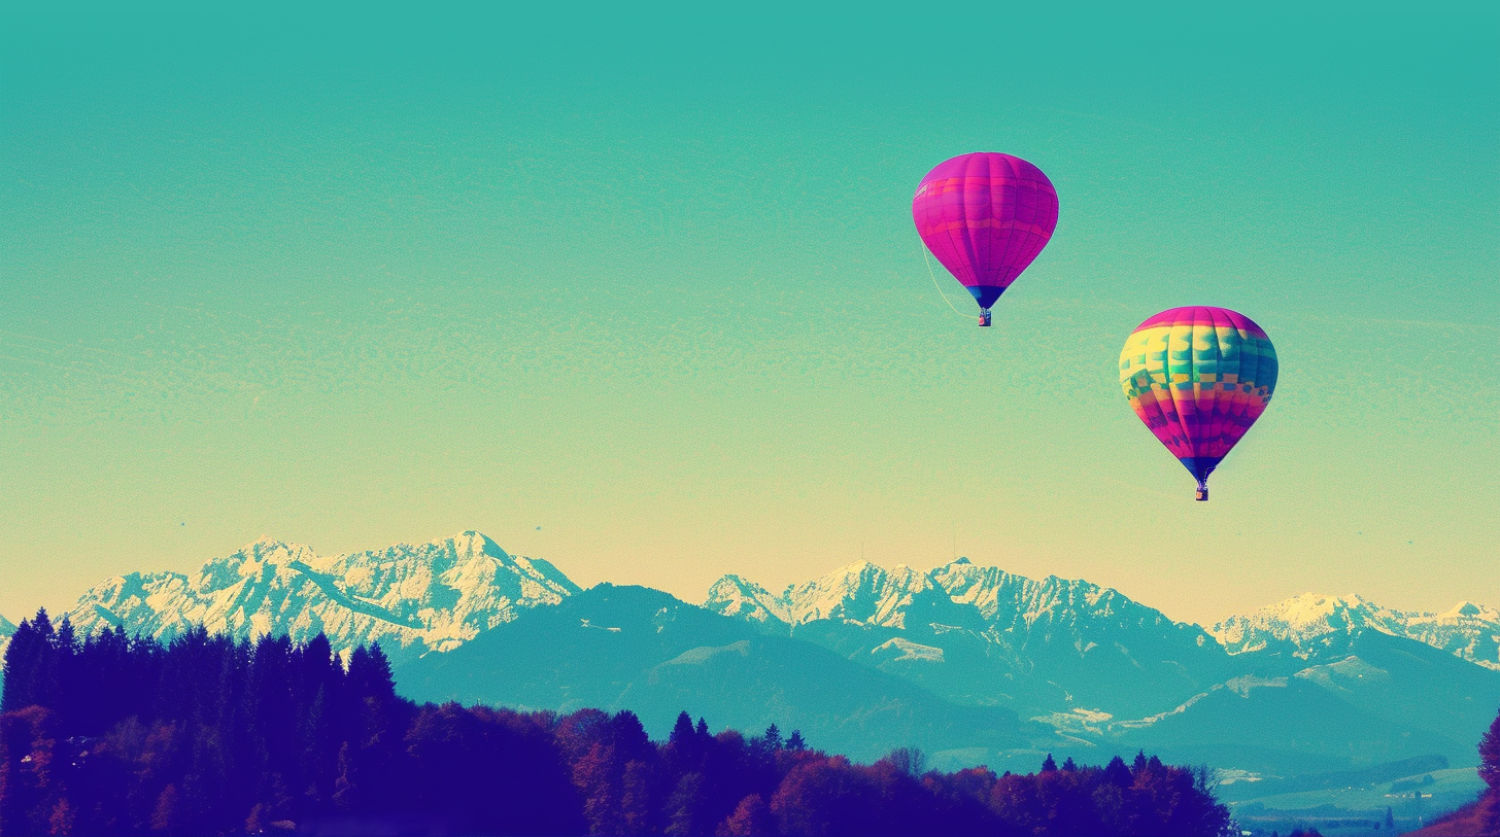
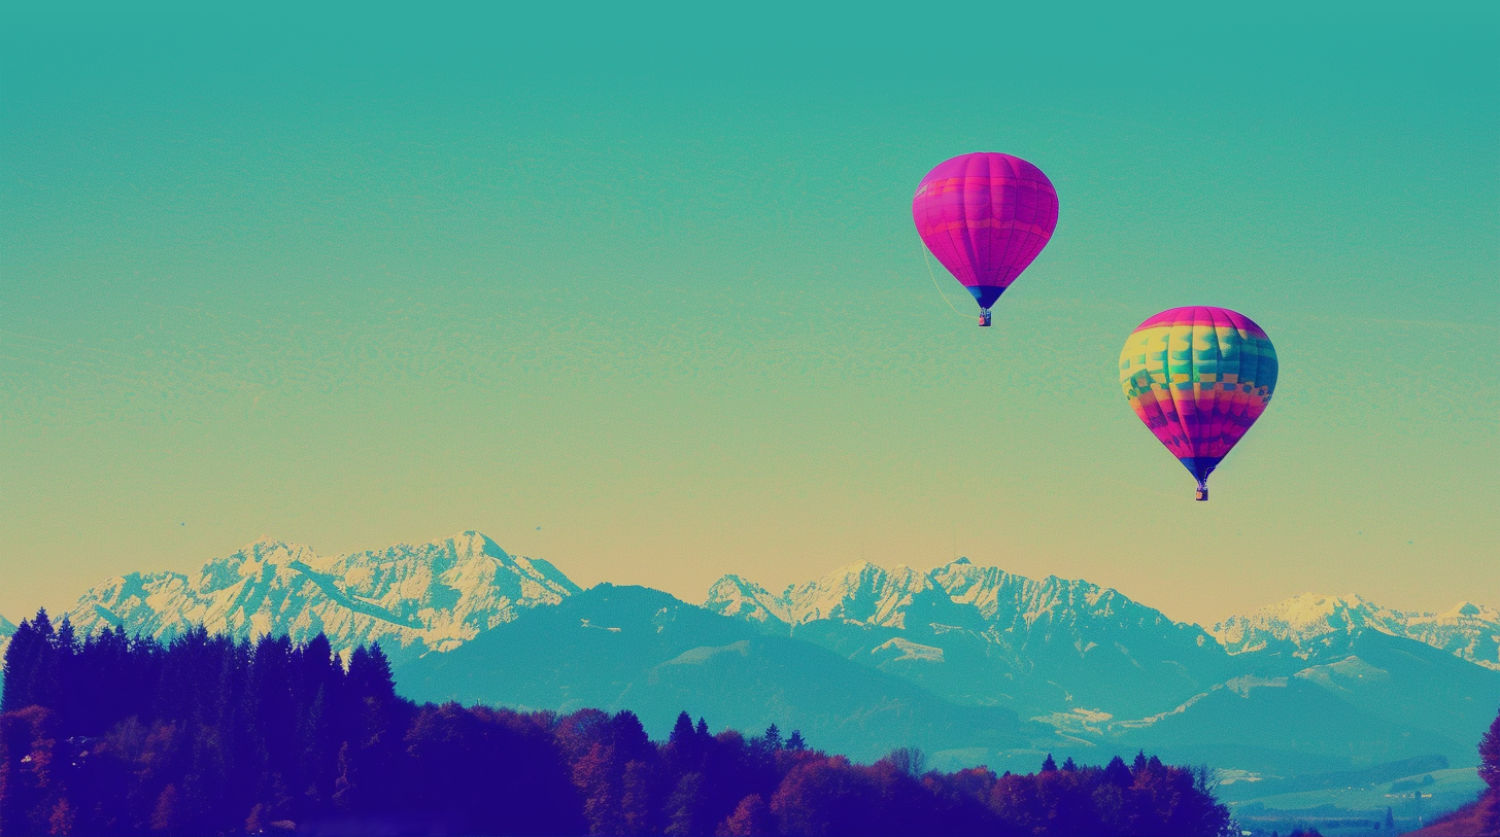
Tweaked background

Changed region(s): [[0.0, 0.3728, 1.0, 0.8076]]

diff --git a/assets/css/main.css b/assets/css/main.css
@@ -226,7 +226,7 @@ input, select, textarea {
 		transform: translate3d(0,0,0);
 	/* Set your background with this */
 
-		background: #33B3A7 url("images/bg.jpg") bottom left;
+		background: #30AA9F url("images/bg.jpg") bottom left;
 		background-repeat: repeat-x;
 		height: 100%;
 		left: 0;
